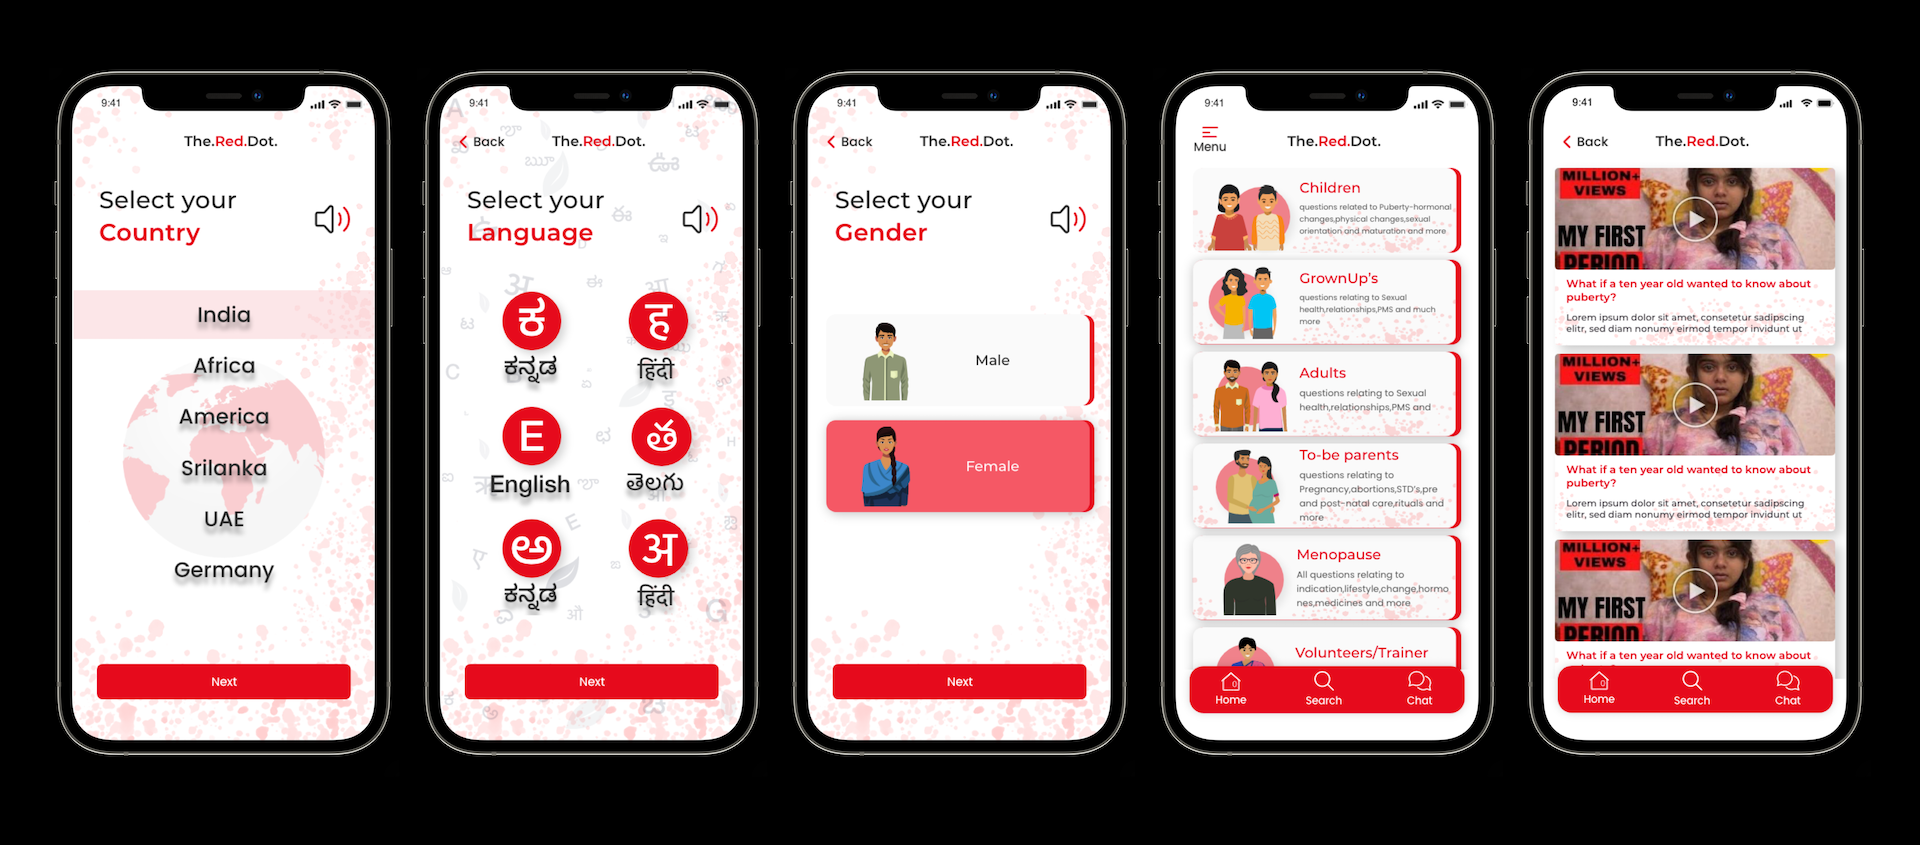
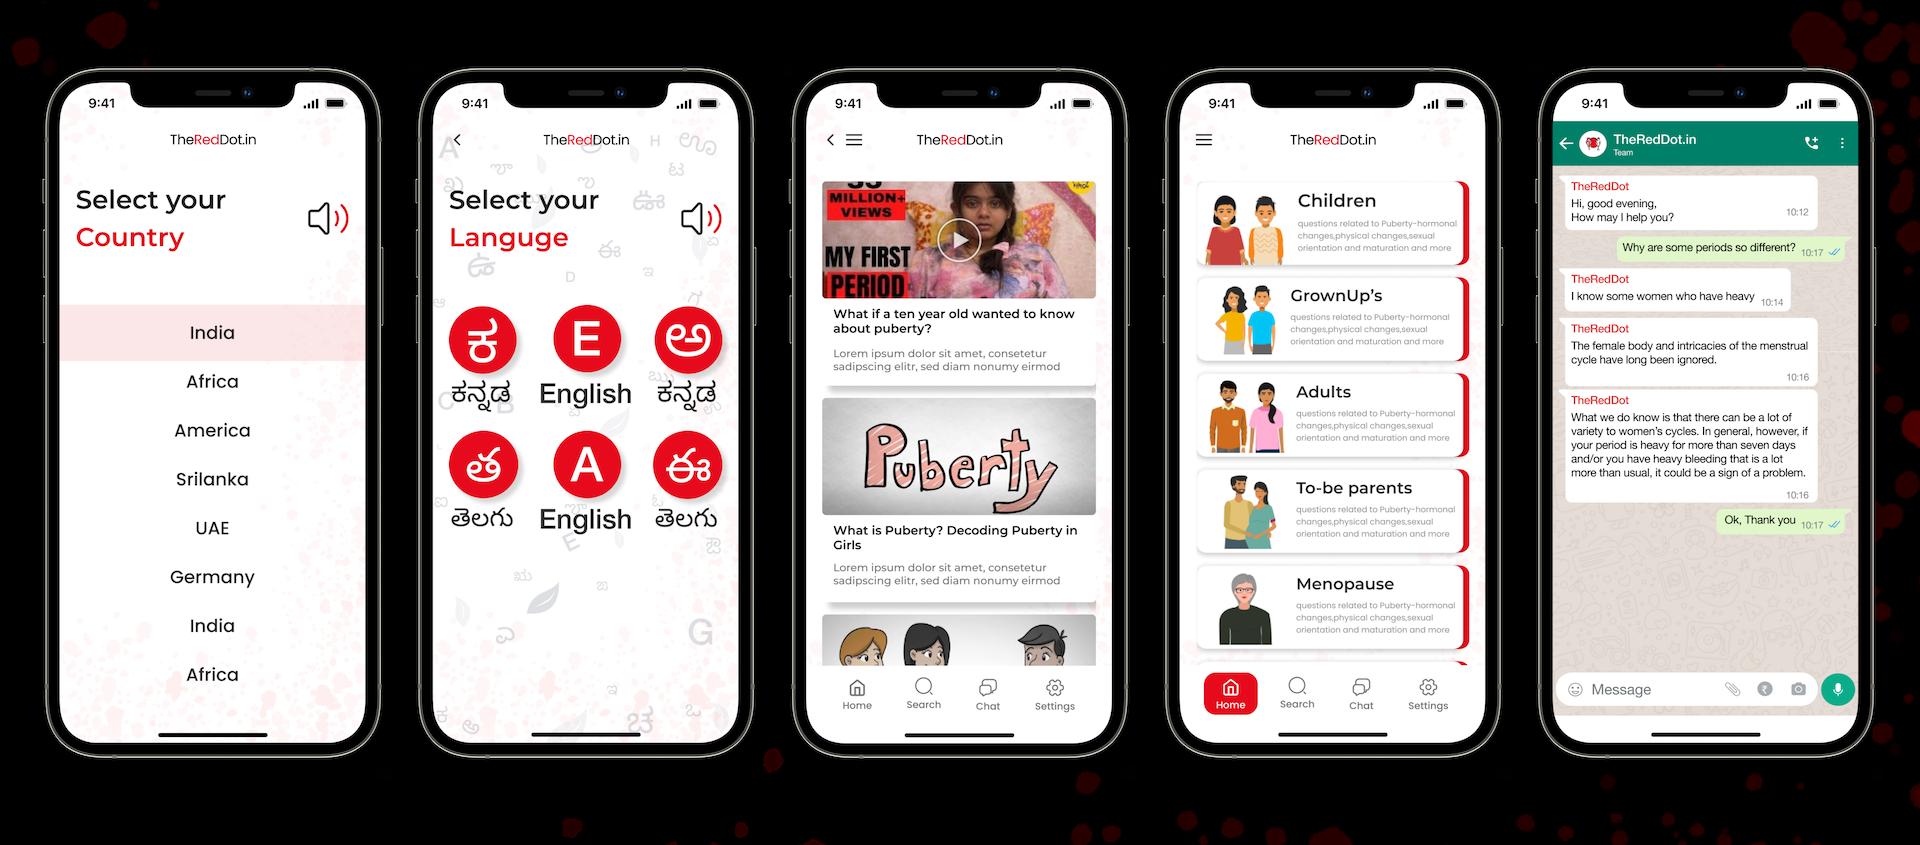
"worked on thereddot page"

diff --git a/thereddot.html b/thereddot.html
@@ -147,7 +147,7 @@
                         </div>
                         <div class="col-12">
                             <img src="/assets/img/TRD/Final-design-mobile.png" width="100%" alt="">
-                            <img src="/assets/img/TRD/Final-design.png" width="100%" alt="">
+                            <img src="/assets/img/TRD/Final-design-web.png" width="100%" alt="">
                         </div>
                     </div>
                     <div class="mt-4">
